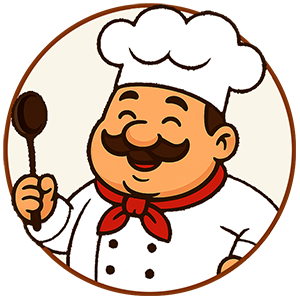
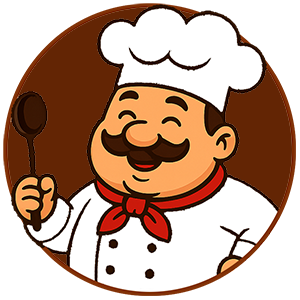
changed servings type to string. address missing chef image.disable analyze button

diff --git a/components/recipe-form/recipe-form.tsx b/components/recipe-form/recipe-form.tsx
@@ -36,7 +36,7 @@ export function RecipeForm({
     instructions: recipe?.instructions || [""],
     prepTime: recipe?.prepTime || "",
     cookTime: recipe?.cookTime || "",
-    servings: recipe?.servings || 1,
+    servings: recipe?.servings || "",
     category: recipe?.category || "",
     image: recipe?.image || "",
   });
@@ -135,7 +135,7 @@ export function RecipeForm({
       instructions: recipeData.instructions || [""],
       prepTime: recipeData.prepTime || "",
       cookTime: recipeData.cookTime || "",
-      servings: recipeData.servings || 1,
+      servings: recipeData.servings || "",
       category: recipeData.category || "",
       image: recipeData.image || formData.image,
     });
@@ -248,6 +248,7 @@ export function RecipeForm({
                     </div>
                   </div>
                   <button
+                    disabled
                     type="button"
                     onClick={() => setShowAIAnalyzer(true)}
                     className={styles.aiButton}
@@ -372,15 +373,15 @@ export function RecipeForm({
                   </label>
                   <input
                     id="servings"
-                    type="number"
-                    min="1"
+                    type="text"
                     value={formData.servings}
                     onChange={(e) =>
                       setFormData((prev) => ({
                         ...prev,
-                        servings: Number.parseInt(e.target.value) || 1,
+                        servings: e.target.value,
                       }))
                     }
+                    placeholder="e.g., 4-6 people"
                     className={styles.input}
                   />
                 </div>

diff --git a/components/ai-chef/ai-chef-button/ai-chef-button.tsx b/components/ai-chef/ai-chef-button/ai-chef-button.tsx
@@ -25,7 +25,12 @@ export const AIChefButton = forwardRef<HTMLButtonElement, Props>(
         role="button"
       >
         <span aria-hidden="true">
-          <Image src="assets/lechef.png" alt="AI Chef" width={24} height={24} />
+          <Image
+            src="/assets/lechef.png"
+            alt="AI Chef"
+            width={24}
+            height={24}
+          />
         </span>
         <span className="sr-only">Chat with AI Chef</span>
       </button>

diff --git a/types/recipe.ts b/types/recipe.ts
@@ -7,7 +7,7 @@ export interface Recipe {
   instructions: string[];
   prepTime?: string;
   cookTime?: string;
-  servings: number;
+  servings: string;
   category: string;
   image?: string; // Base64 encoded image or URL
   featured?: boolean;
@@ -22,7 +22,7 @@ export interface AIRecipeAnalysisResult {
   instructions?: string[];
   prepTime?: string;
   cookTime?: string;
-  servings?: number;
+  servings?: string;
   category?: string;
   image?: string;
 }

diff --git a/lib/database.ts b/lib/database.ts
@@ -206,7 +206,7 @@ const normalizeRecipe = (recipe: Record<string, unknown>): Recipe => ({
   instructions: recipe.instructions as string[],
   prepTime: recipe.prep_time as string,
   cookTime: recipe.cook_time as string,
-  servings: recipe.servings as number,
+  servings: recipe.servings as string,
   category: recipe.category as string,
   image: recipe.image as string,
   featured: recipe.featured as boolean,

diff --git a/components/recipe-form/recipe-form.module.css b/components/recipe-form/recipe-form.module.css
@@ -451,10 +451,15 @@
   box-shadow: 0 4px 15px rgba(217, 119, 6, 0.3);
 }
 
-.aiButton:hover {
+/* .aiButton:hover {
   transform: translateY(-2px);
   box-shadow: 0 8px 25px rgba(217, 119, 6, 0.4);
   background: linear-gradient(135deg, #92400e 0%, #78350f 100%);
+} */
+
+.aiButton:disabled {
+  opacity: 0.5;
+  cursor: not-allowed;
 }
 
 @media (max-width: 768px) {

diff --git a/components/ai-recipe-analyzer/ai-recipe-analyzer.tsx b/components/ai-recipe-analyzer/ai-recipe-analyzer.tsx
@@ -19,7 +19,7 @@ interface RecipeAnalysis {
   instructions: string[];
   prepTime: string;
   cookTime: string;
-  servings: number;
+  servings: string;
   category: string;
 }
 

diff --git a/components/recipe-detail/recipe-detail.module.css b/components/recipe-detail/recipe-detail.module.css
@@ -38,6 +38,7 @@
   padding: 0.5rem;
   border-radius: 0.25rem;
   transition: all 0.2s;
+  margin-inline-end: 0.75rem;
 }
 
 .backButton:hover {
